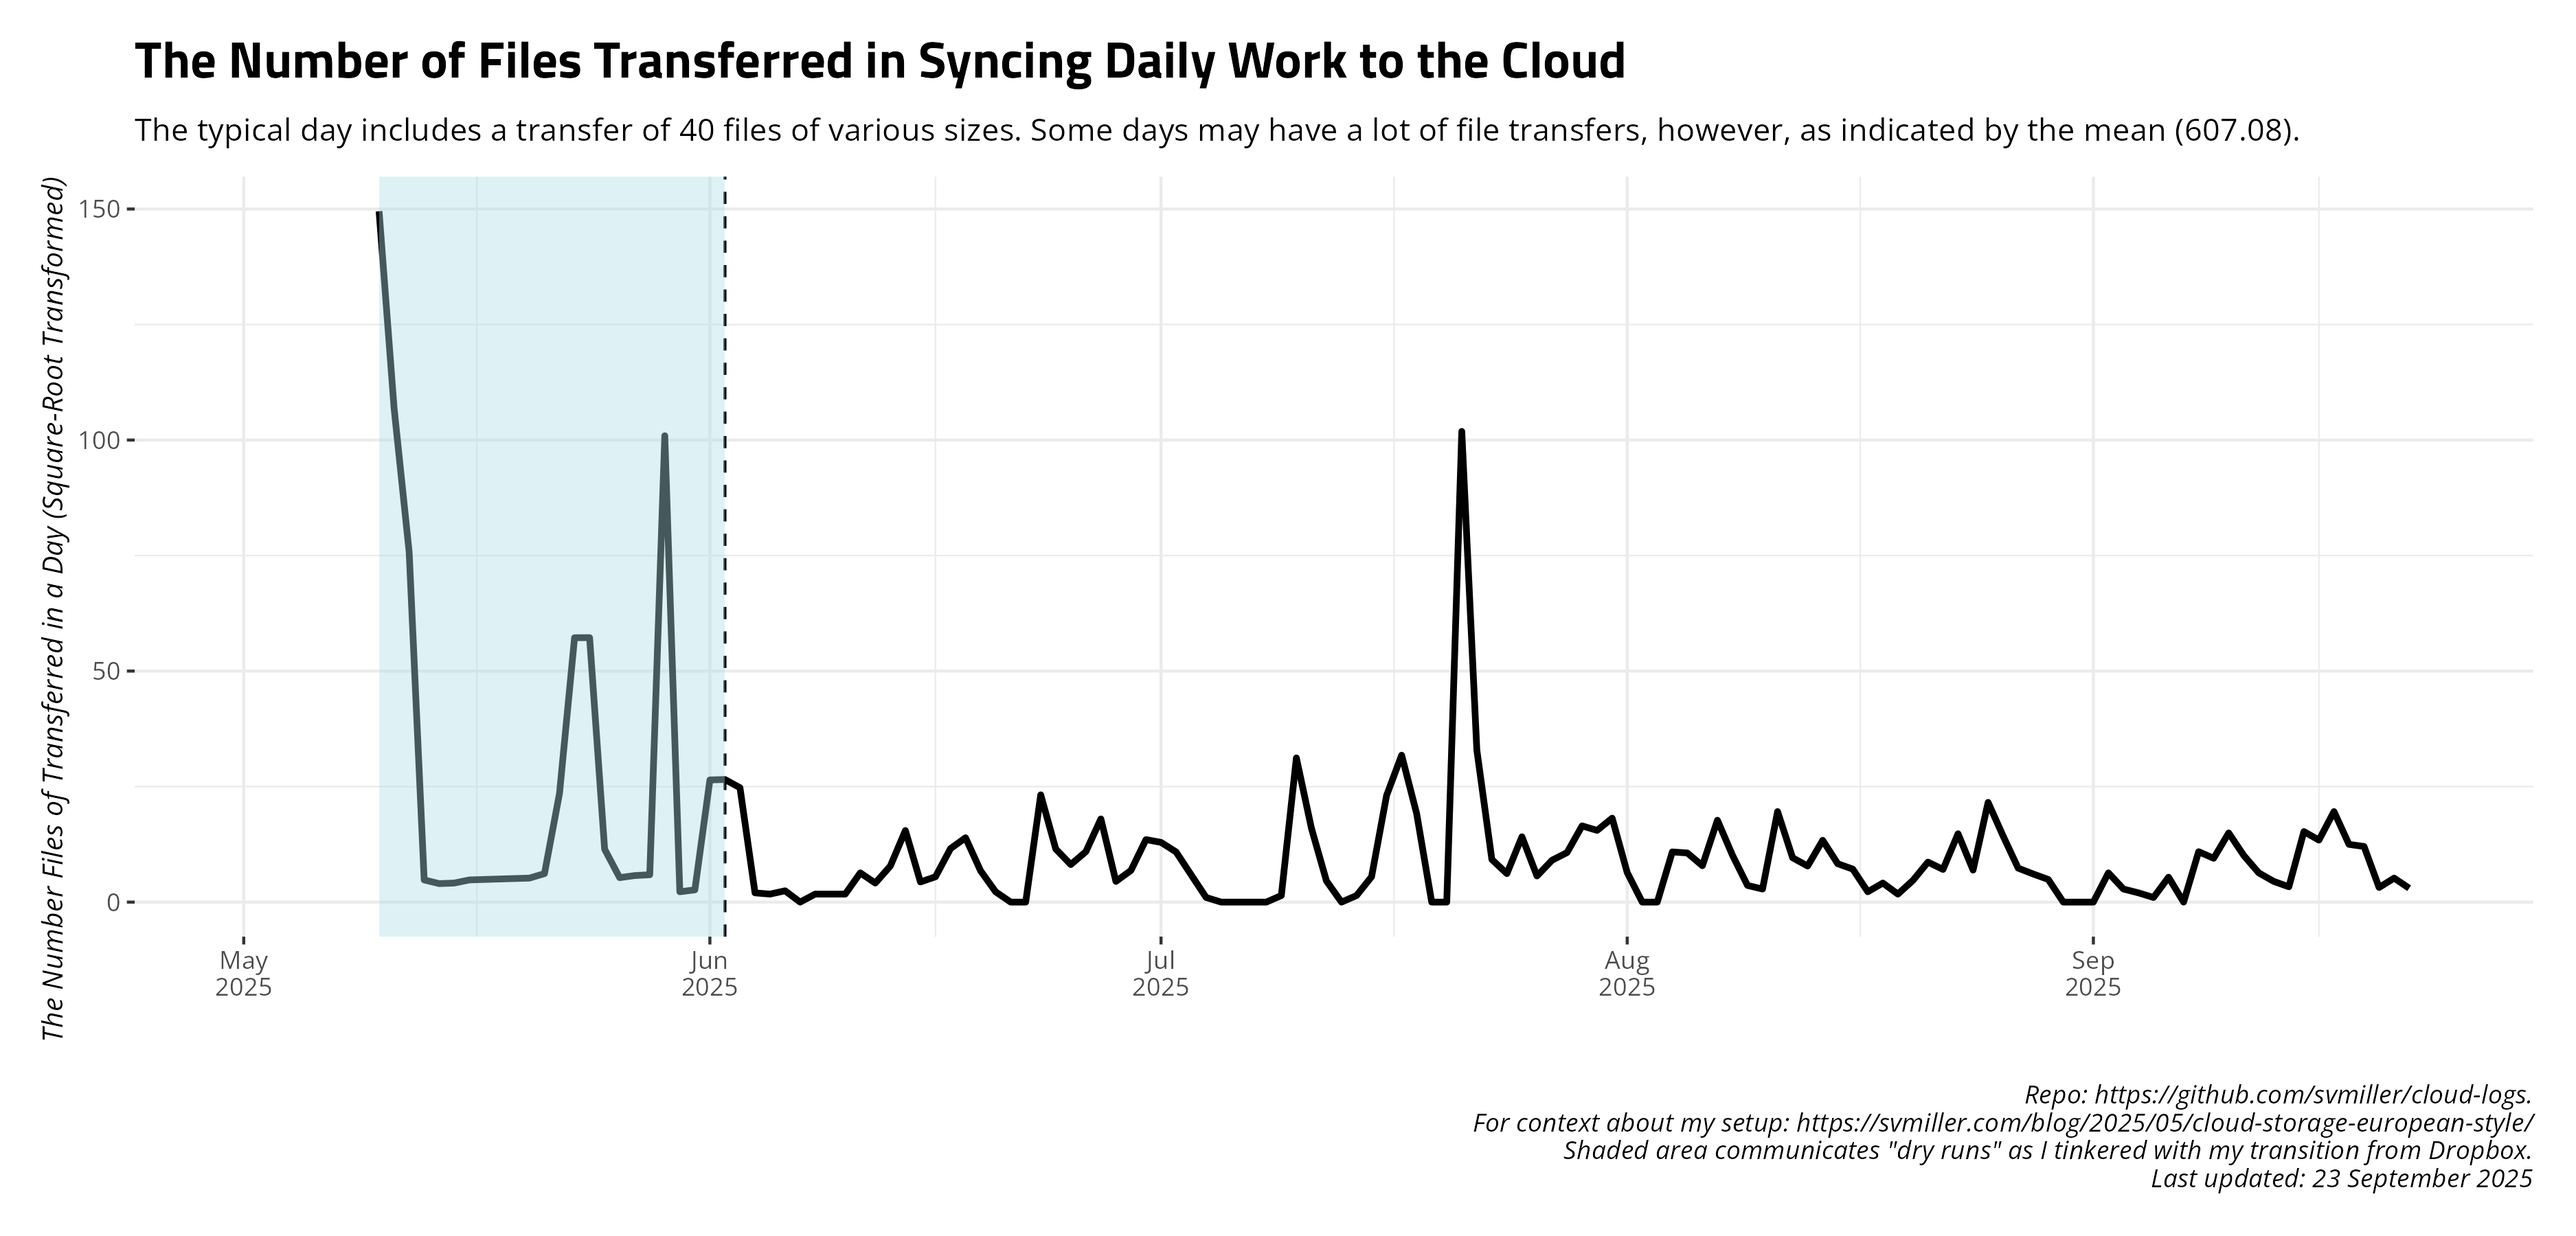
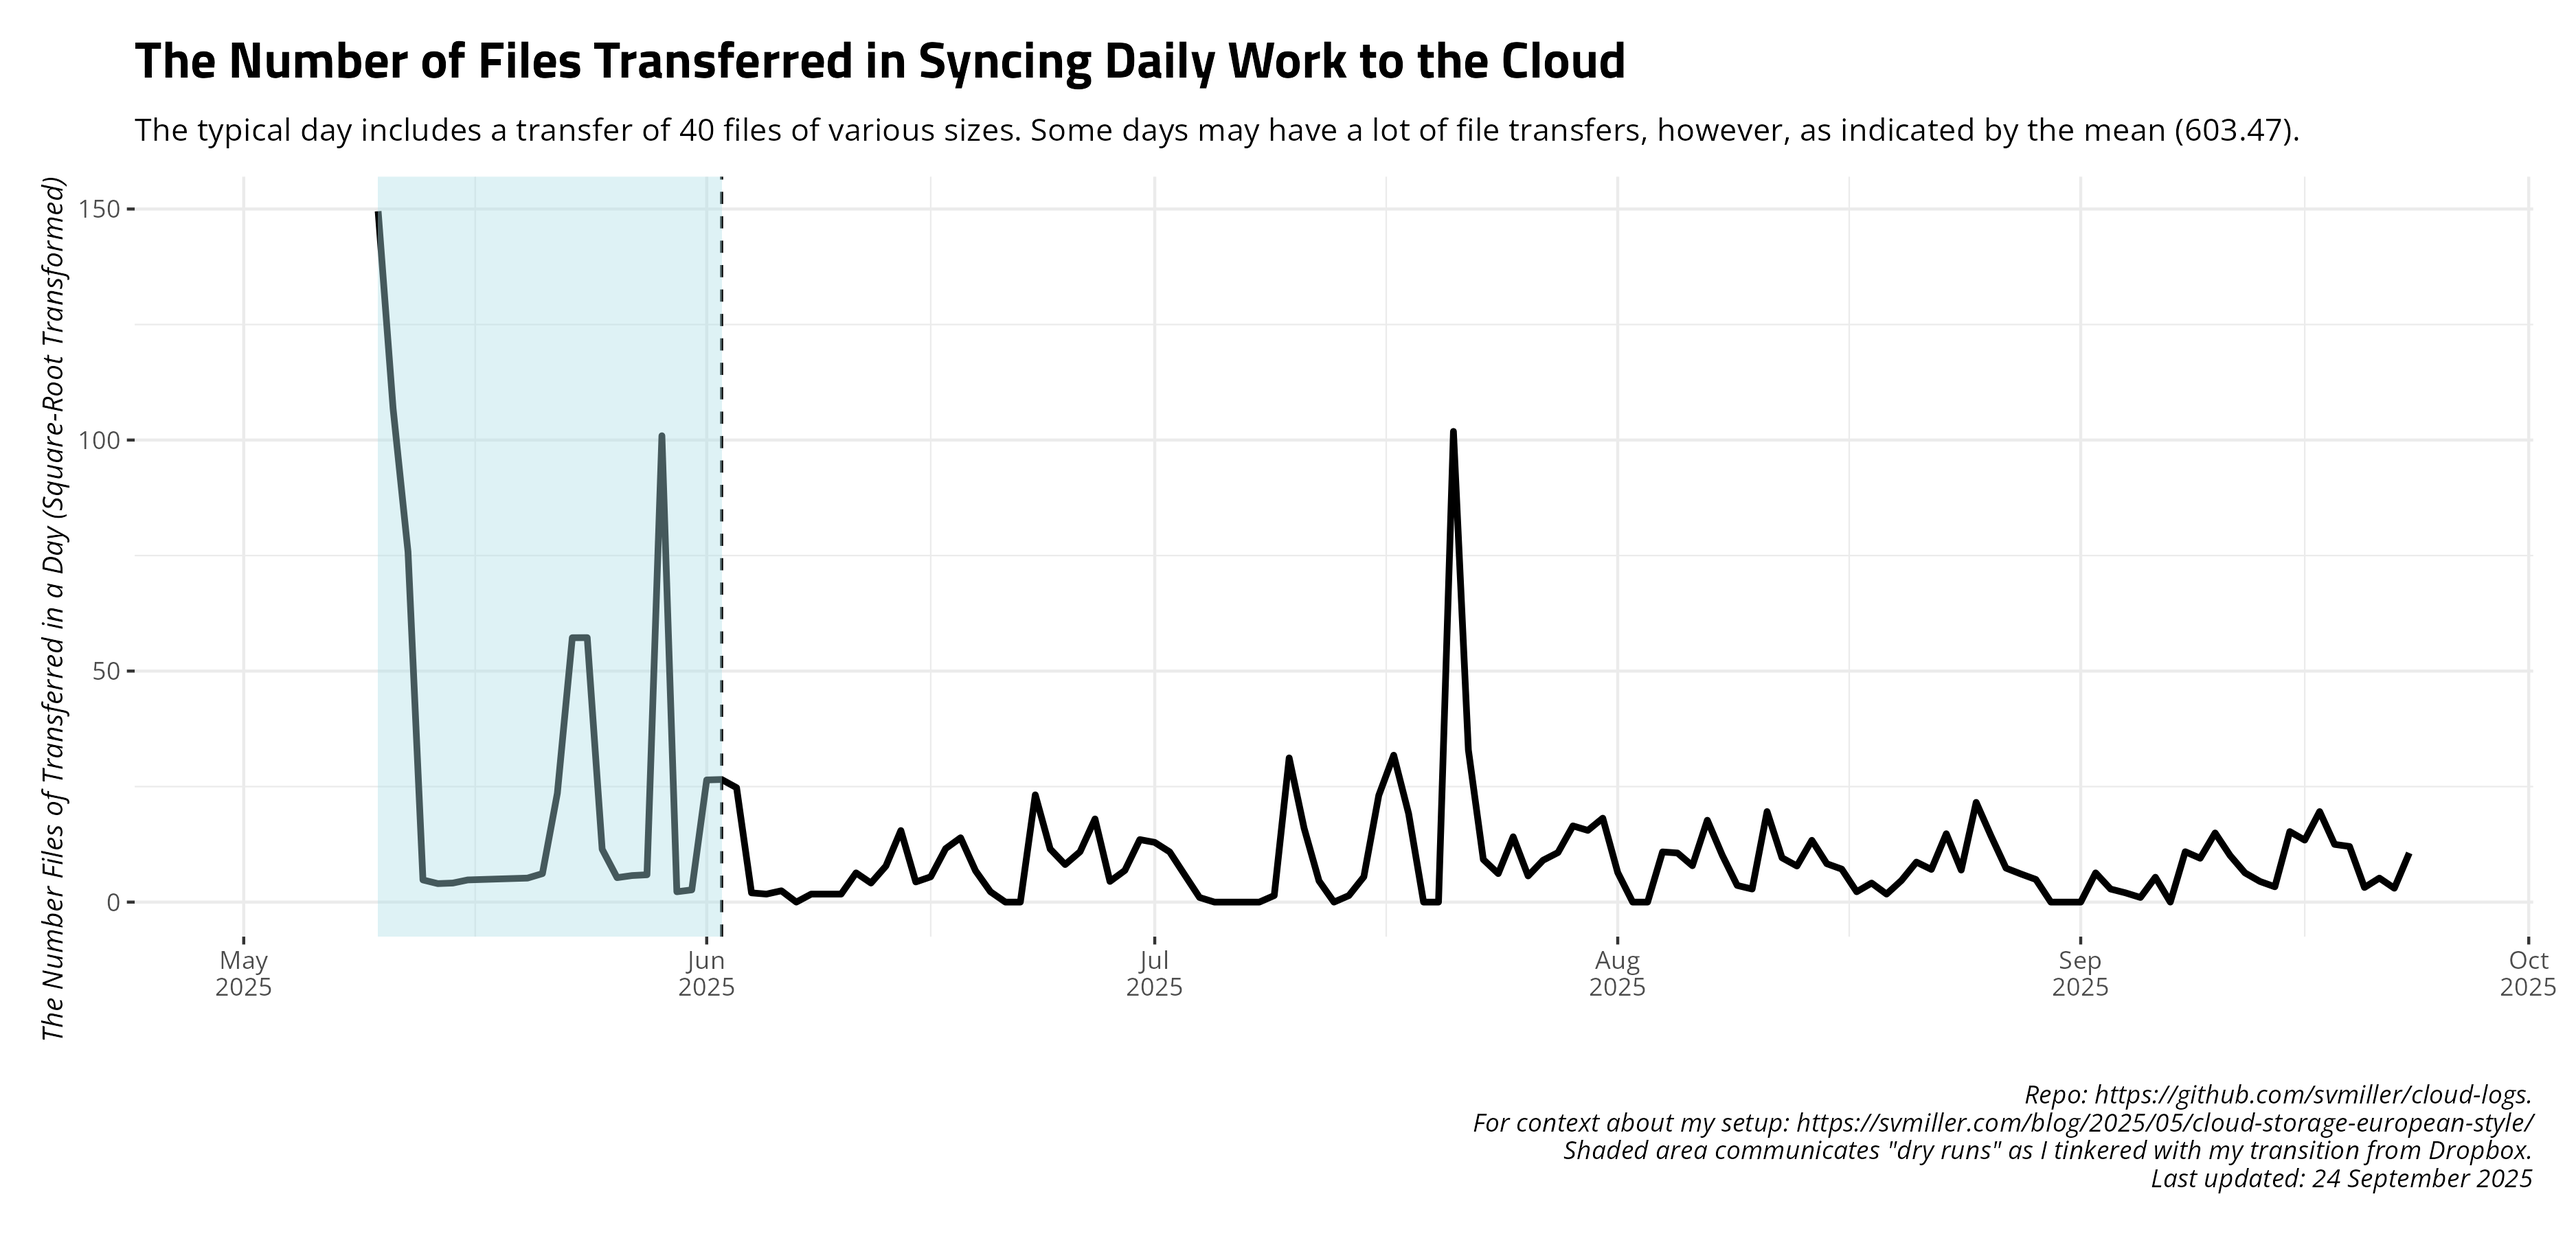
Date: 2025-09-24 09:00:14. Hi mom!

diff --git a/README.md b/README.md
@@ -27,17 +27,17 @@ and uploads to Github.
     #> # A tibble: 14 × 4
     #>    date       ftransfer stransfer   elapsed
     #>    <date>         <dbl> <chr>       <chr>  
-    #>  1 2025-09-09        90 2.081 MiB   4m56.8s
-    #>  2 2025-09-10       224 188.623 MiB 5m14.5s
-    #>  3 2025-09-11       102 1.420 MiB   4m58.7s
-    #>  4 2025-09-12        40 513.224 KiB 4m53.9s
-    #>  5 2025-09-13        20 351.011 KiB 4m47.3s
-    #>  6 2025-09-14        11 124.986 KiB 5m19.2s
-    #>  7 2025-09-15       233 116.284 MiB 5m17.2s
-    #>  8 2025-09-16       180 17.775 MiB  4m38.3s
-    #>  9 2025-09-17       384 10.375 MiB  4m40.4s
-    #> 10 2025-09-18       156 2.882 MiB   4m45.7s
-    #> 11 2025-09-19       145 121.392 MiB 4m37.2s
-    #> 12 2025-09-20        10 13.771 KiB  4m44.8s
-    #> 13 2025-09-21        27 314.652 KiB 5m1.5s 
-    #> 14 2025-09-22         9 8.336 MiB   5m26.1s
+    #>  1 2025-09-10       224 188.623 MiB 5m14.5s
+    #>  2 2025-09-11       102 1.420 MiB   4m58.7s
+    #>  3 2025-09-12        40 513.224 KiB 4m53.9s
+    #>  4 2025-09-13        20 351.011 KiB 4m47.3s
+    #>  5 2025-09-14        11 124.986 KiB 5m19.2s
+    #>  6 2025-09-15       233 116.284 MiB 5m17.2s
+    #>  7 2025-09-16       180 17.775 MiB  4m38.3s
+    #>  8 2025-09-17       384 10.375 MiB  4m40.4s
+    #>  9 2025-09-18       156 2.882 MiB   4m45.7s
+    #> 10 2025-09-19       145 121.392 MiB 4m37.2s
+    #> 11 2025-09-20        10 13.771 KiB  4m44.8s
+    #> 12 2025-09-21        27 314.652 KiB 5m1.5s 
+    #> 13 2025-09-22         9 8.336 MiB   5m26.1s
+    #> 14 2025-09-23       113 1.845 MiB   4m10.1s
